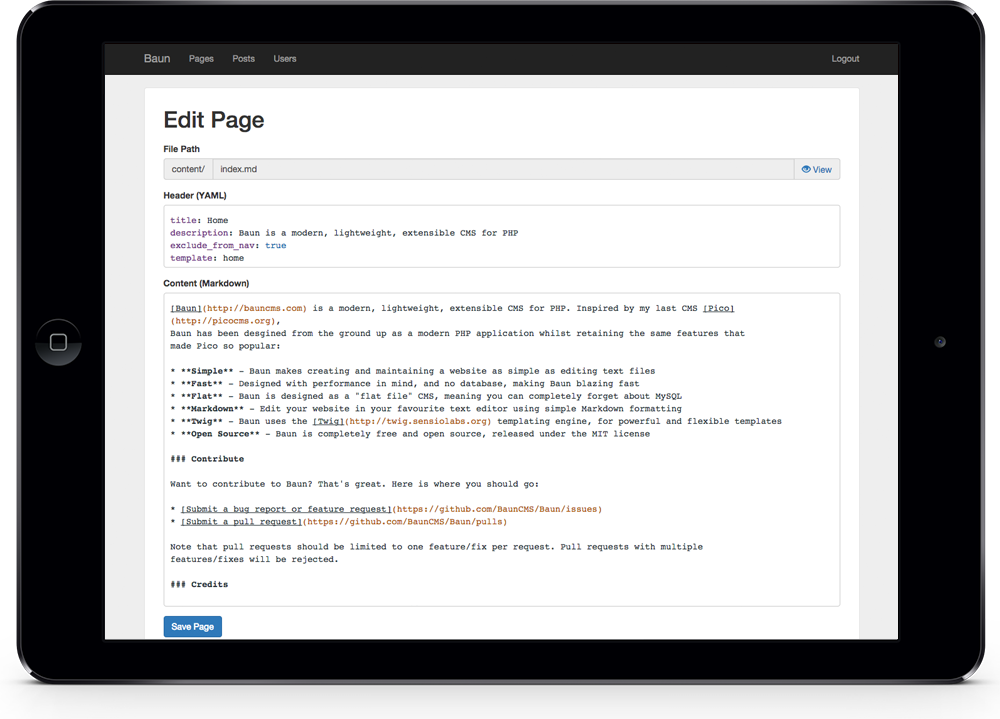
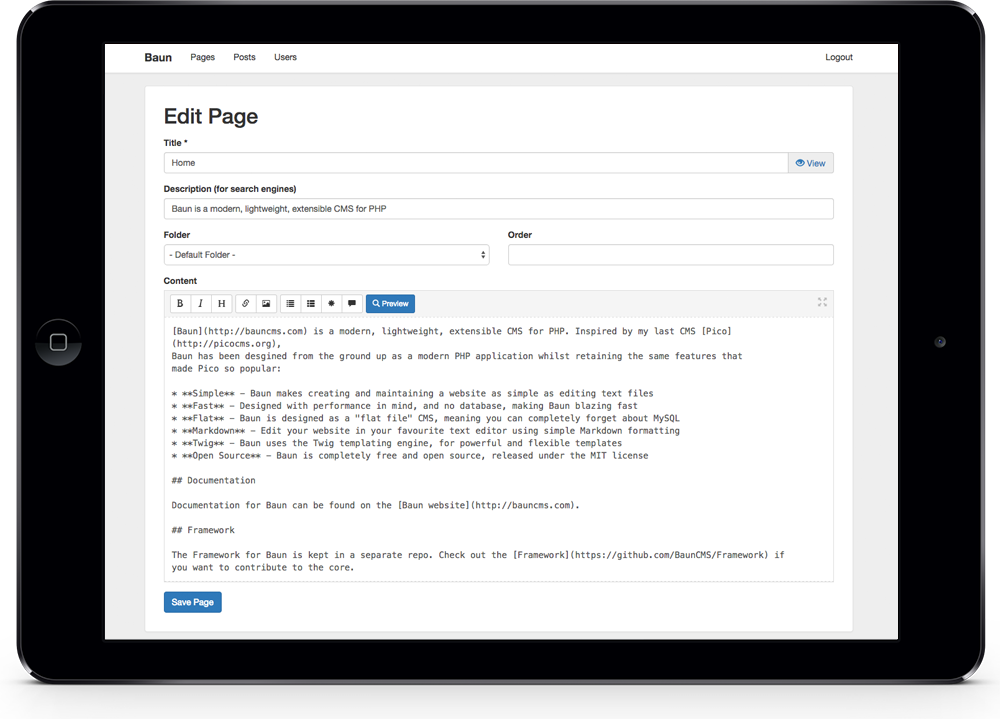
Update Admin plugin pages

diff --git a/public/themes/baun/plugin-admin.html b/public/themes/baun/plugin-admin.html
@@ -52,17 +52,17 @@
 
 				<div class="col-md-3 col-sm-6">
 					<div class="feature feature-icon-large">
-						<i class="icon icon-lifesaver" style="margin:0 auto 32px;"></i>
-						<h5>Priority Support</h5>
-						<p>As the Admin is a premium plugin, it includes priority email support for no extra cost, including help with installation, setup and usage.</p>
+						<i class="icon icon-edit" style="margin:0 auto 32px;"></i>
+						<h5>Simple or Advanced Editor</h5>
+						<p>Choose between a simple editor (great for clients) or an advanced editor (for those who know what YAML and Markdown are).</p>
 					</div>
 				</div>
 
 				<div class="col-md-3 col-sm-6">
 					<div class="feature feature-icon-large">
 						<i class="icon icon-documents" style="margin:0 auto 32px;"></i>
-						<h5>Clear Documentation</h5>
-						<p>The Admin plugin comes with it's own set of clear and easy to follow <a href="/plugins/admin/docs">documentation</a>, so you can get up &amp; running in minutes.</p>
+						<h5>Support &amp; Documentation</h5>
+						<p>The Admin plugin comes with it's own set of clear and easy to follow <a href="/plugins/admin/docs">documentation</a> and priority email support for all active license holders.</p>
 					</div>
 				</div>
 			</div>
@@ -80,8 +80,7 @@
 
 			<div class="row">
 				<div class="image-gallery lightbox-gallery-mrv">
-
-					<div class="col-sm-4 veo">
+					<div class="col-sm-3 veo">
 						<div class="image-holder" data-scroll-reveal="enter bottom and move 30px">
 							<a href="/themes/baun/img/plugins/screen-1.png" data-lightbox="true" data-title="Login Screen">
 								<div class="background-image-holder">
@@ -91,7 +90,7 @@
 						</div>
 					</div>
 
-					<div class="col-sm-4 veo">
+					<div class="col-sm-3 veo">
 						<div class="image-holder" data-scroll-reveal="enter bottom and move 30px">
 							<a href="/themes/baun/img/plugins/screen-2.png" data-lightbox="true" data-title="List of Pages">
 								<div class="background-image-holder">
@@ -101,11 +100,21 @@
 						</div>
 					</div>
 
-					<div class="col-sm-4 veo" data-scroll-reveal="enter bottom and move 30px">
+					<div class="col-sm-3 veo" data-scroll-reveal="enter bottom and move 30px">
 						<div class="image-holder">
-							<a href="/themes/baun/img/plugins/screen-3.png" data-lightbox="true" data-title="Content Editor">
+							<a href="/themes/baun/img/plugins/screen-3.png" data-lightbox="true" data-title="Simple Editor">
 								<div class="background-image-holder">
 									<img class="background-image lightbox-image" alt="Designer" src="/themes/baun/img/plugins/screen-3.png">
+								</div>
+							</a>
+						</div>
+					</div>
+
+					<div class="col-sm-3 veo" data-scroll-reveal="enter bottom and move 30px">
+						<div class="image-holder">
+							<a href="/themes/baun/img/plugins/screen-4.png" data-lightbox="true" data-title="Advanced Editor">
+								<div class="background-image-holder">
+									<img class="background-image lightbox-image" alt="Designer" src="/themes/baun/img/plugins/screen-4.png">
 								</div>
 							</a>
 						</div>

diff --git a/public/themes/baun/css/custom.css b/public/themes/baun/css/custom.css
@@ -67,3 +67,14 @@ footer .sub a:hover {
 	color: #fff;
 	margin-bottom: 0;
 }
+
+@media (min-width: 768px) {
+	.image-gallery .image-holder {
+		height: 158px;
+	}
+}
+@media (min-width: 992px) {
+	.image-gallery .image-holder {
+		height: 270px;
+	}
+}

diff --git a/content/plugins/admin/docs.md b/content/plugins/admin/docs.md
@@ -43,16 +43,19 @@ Once you are logged in you will see a list of pages (and posts if you have a blo
 
 ![List of pages](/themes/baun/img/plugins/screen-2.png)
 
-Creating an editing content is done in a similar fashion as if you were editing the file on your own computed using a
+By default the "simple" editor will be enabled. This allows you to create and edit content in a familiar fashion using
+simple text inputs and a WYSIWYG editor (with a preview).
+
+![Simple editor](/themes/baun/img/plugins/screen-3.png)
+
+If you prefer something a bit more "raw" you can enable the "advanced" editor by changing the setting in the plugin
+config file. In "advanced" mode editing is done as if you were editing the file on your own computed using a
 text editor. You enter meta information about the page in the header and the actual page content in the content box.
 
-![Content editor](/themes/baun/img/plugins/screen-3.png)
+![Advanced editor](/themes/baun/img/plugins/screen-4.png)
 
-You can't create subfolder directly using the admin editor however you can create pages within subfolders, and the
+You can't create subfolders directly using the admin editor however you can create pages within subfolders, and the
 subfolder will automatically be created for you.
-
-If you need to rename or move a page, you must create a new page (copy and paste the header and content) and then delete
-the old page. Direct renaming of pages is not currently supported.
 
 ## Support
 
